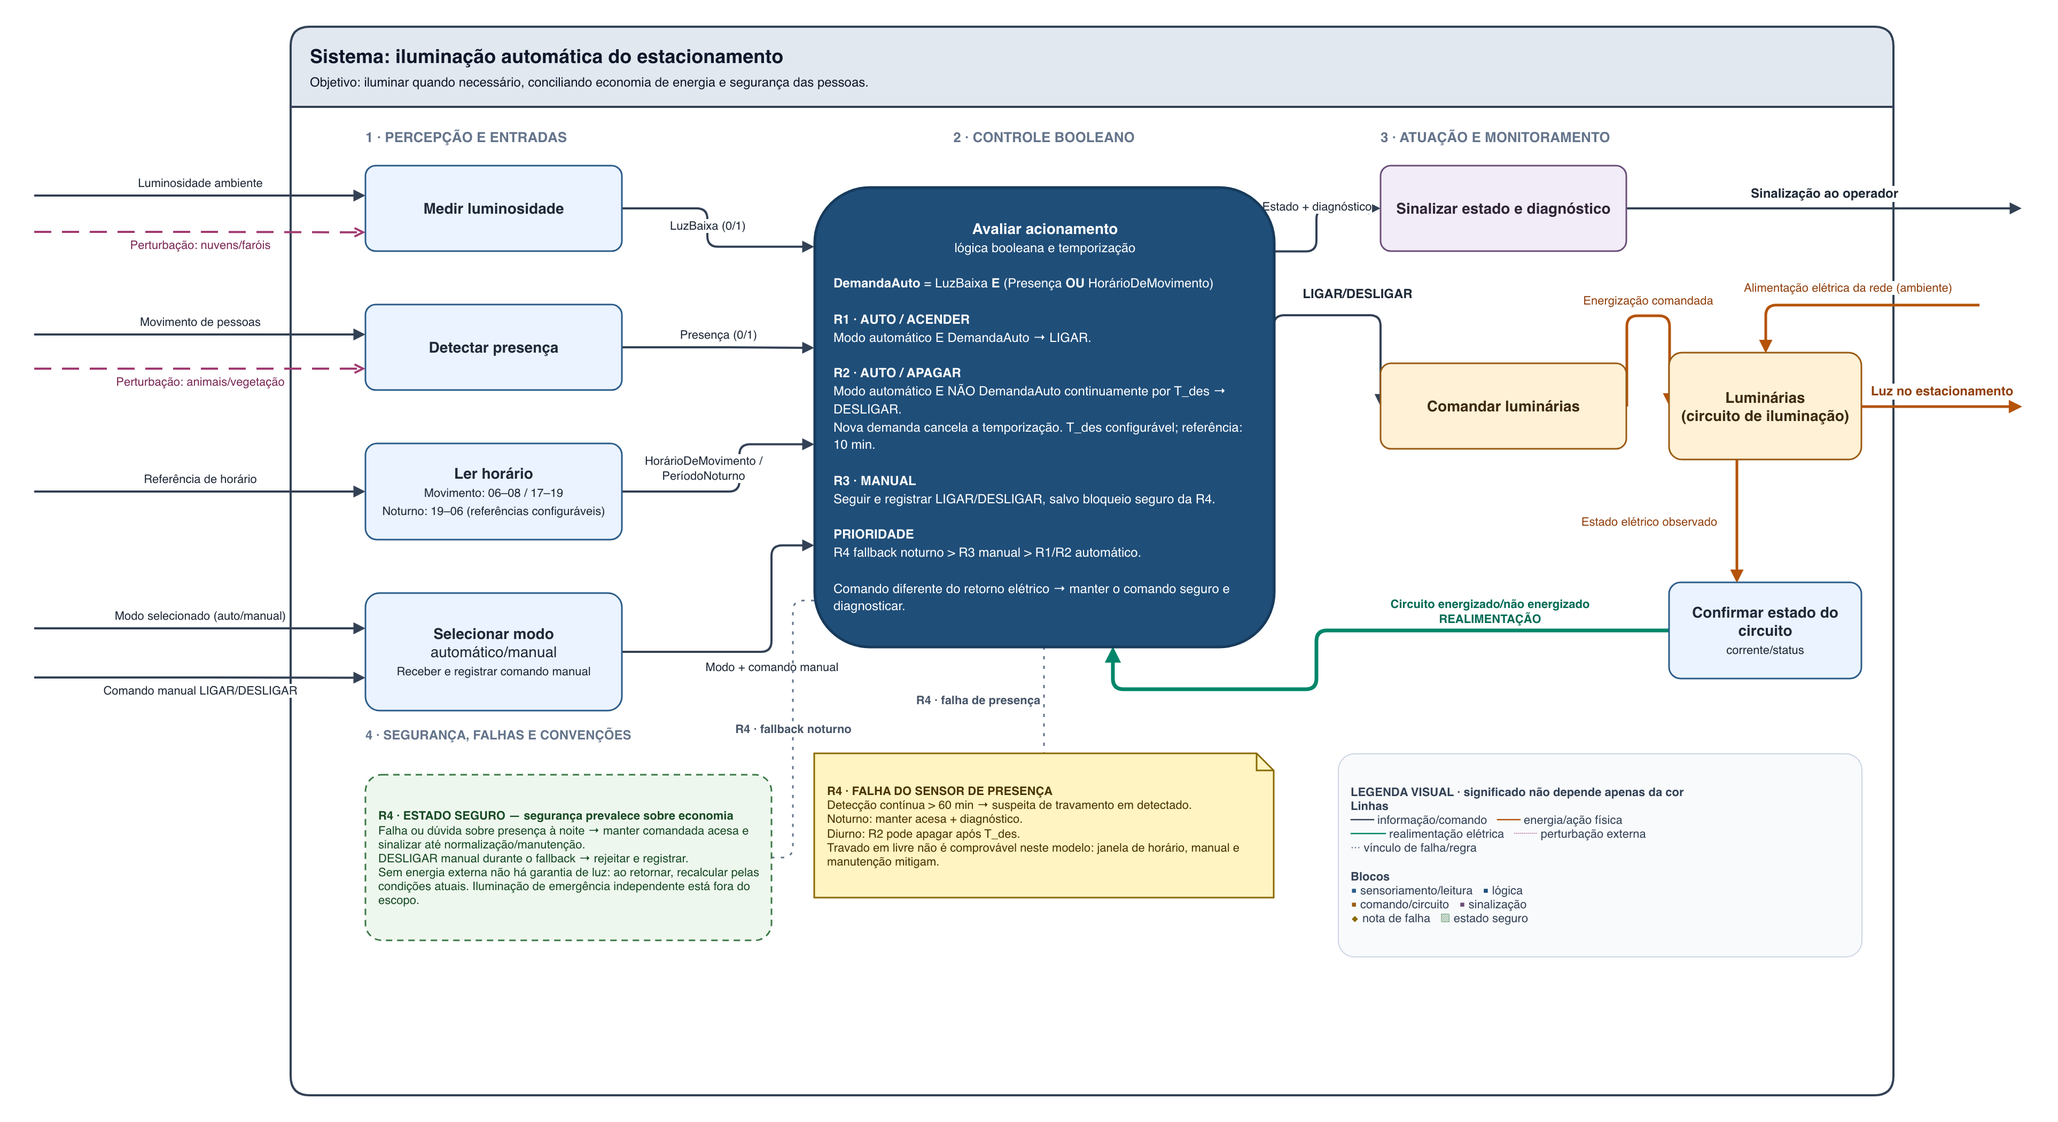
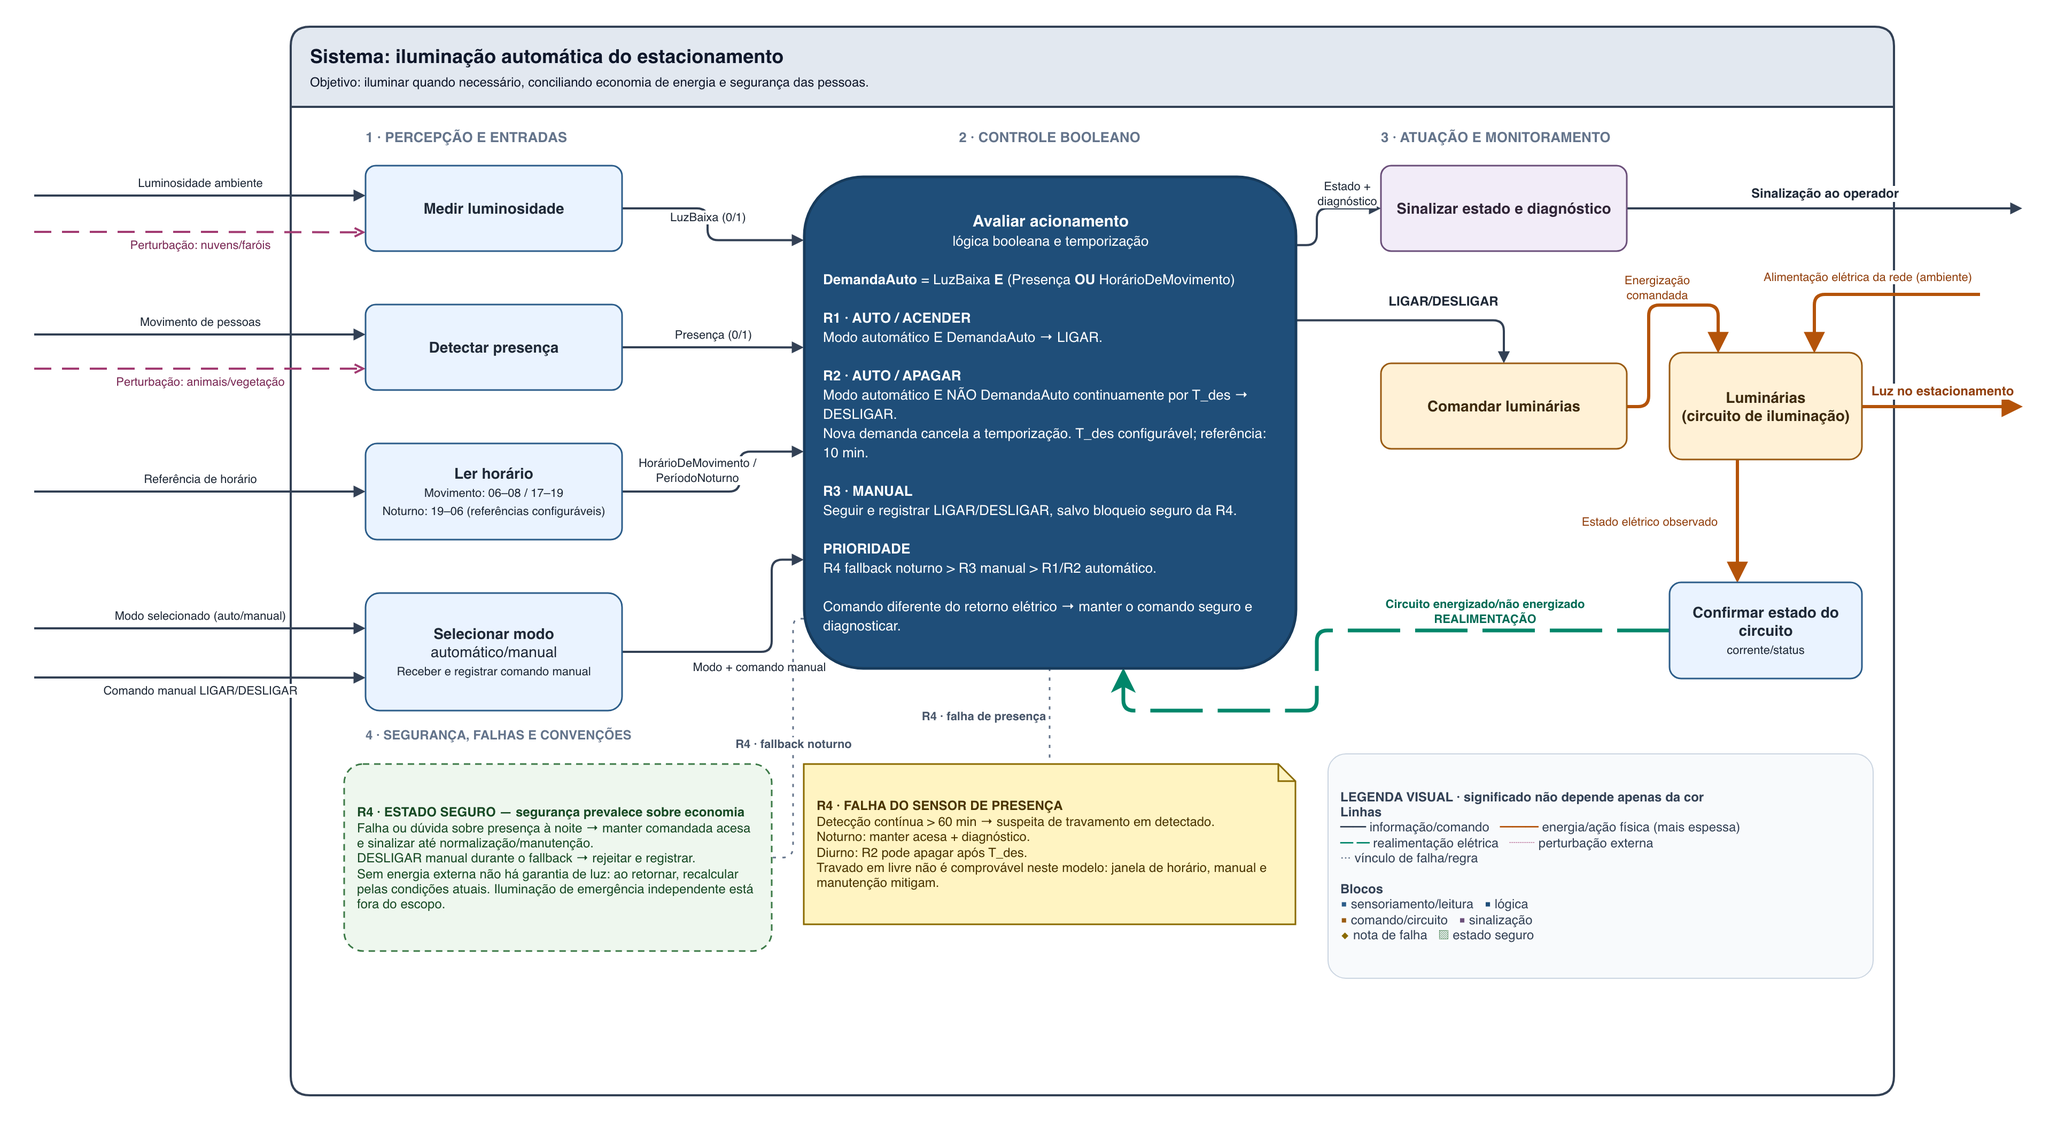
TP01: refina diagramas dos exercícios adicionais

diff --git a/atividades/TP01-fundamentos/reservatorio/README.md b/atividades/TP01-fundamentos/reservatorio/README.md
@@ -52,7 +52,8 @@ controlado pelo sistema.
 | `L_baixo` | Limite inferior de comutação: liga a bomba |
 | `L_alto` | Limite superior de comutação: desliga a bomba |
 | `LAA` | Limite de proteção alto-alto, acima de `L_alto` |
-| `T_diag` | Tempo máximo para observar resposta coerente do nível após comando da bomba |
+| `T_diag` | Janela máxima para observar tendência de subida após comando `LIGAR` |
+| Premissa diagnóstica | Vazão da bomba maior que o consumo máximo admissível de projeto |
 | Perturbação | Consumo variável, que reduz o nível |
 
 `L_baixo` e `L_alto` são dois limites de uma única faixa desejada, não dois
@@ -84,17 +85,22 @@ sobre a operação normal.
 4. **R4 — proteção alto-alto:** se `nível ≥ LAA`, desligar a bomba, alarmar e
    exigir rearme manual. R4 prevalece sobre R2: ambas desligam a bomba, mas
    somente R4 retém a falha e exige alarme e rearme.
-5. **R5 — sensor/resposta inválida:** se o sinal estiver fora da faixa física
-   **ou** não houver variação coerente do nível após um comando da bomba durante
-   `T_diag`, desligar a bomba, alarmar, reter a falha e exigir rearme manual.
-   `T_diag` é configurável no comissionamento. A instrumentação não distingue
-   um sensor travado em valor plausível de uma bomba que não responde; ambos
-   recebem a mesma resposta segura. R5 prevalece sobre R4 e sobre a operação
-   normal.
+5. **R5 — sensor/resposta incoerente:** sob a premissa de projeto de que a vazão
+   da bomba supera o consumo máximo admissível, declarar **suspeita** se o sinal
+   estiver fora da faixa física **ou** se, após `LIGAR`, o nível medido não
+   apresentar tendência de subida durante `T_diag`. Desligar a bomba, alarmar,
+   reter a falha e exigir rearme manual. `T_diag` é configurável no
+   comissionamento. O modelo não identifica a causa: sensor travado em valor
+   plausível, bomba sem resposta ou consumo fora da faixa de projeto recebem a
+   mesma resposta segura. R5 prevalece sobre R4 e sobre a operação normal.
 
 As permissivas de ligação são: sistema habilitado, ausência de falha retida e
 nível compatível com reposição. Fora delas, qualquer solicitação de ligação é
 rejeitada e a bomba permanece desligada.
+
+R0 é somente repouso, não falha retida: ao reabilitar o sistema, as regras
+operacionais podem voltar a ser avaliadas se não existir latch de R4/R5. Apenas
+R4 e R5 exigem inspeção e rearme manual.
 
 As regras R4 e R5 declaram uma **falha retida (latch)**. Uma vez ativa, ela
 mantém a bomba desligada e bloqueia R1–R3 mesmo que a condição de detecção
@@ -117,13 +123,15 @@ manual após inspeção.
 
 A bomba altera fisicamente o nível da planta. O **nível resultante** retorna ao
 sensor, que gera o **nível medido** para o controlador; esse retorno fecha a
-malha e permite desligar em `L_alto`, detectar `LAA` e verificar se houve
-resposta coerente ao comando da bomba dentro de `T_diag`.
+malha e permite desligar em `L_alto`, detectar `LAA` e verificar a resposta ao
+comando da bomba. Como premissa diagnóstica, a vazão de reposição deve superar o
+consumo máximo admissível; assim, após `LIGAR`, espera-se tendência de subida do
+nível dentro de `T_diag`.
 
 A proteção `LAA` continua baseada no nível medido. Portanto, um sensor travado
-em valor plausível pode ocultar o nível alto-alto; a R5 apenas percebe que a
-resposta dinâmica ao comando é incoerente e não consegue separar essa falha de
-uma bomba que não respondeu.
+em valor plausível pode ocultar o nível alto-alto. A R5 apenas declara uma
+suspeita de resposta incoerente; ela não separa sensor travado, bomba sem
+resposta e consumo acima da faixa de projeto.
 
 O consumo variável é uma perturbação: age diretamente sobre a planta e pode
 reduzir o nível de forma não comandada. Ele não é uma entrada de decisão do
@@ -133,18 +141,21 @@ controlador; seu efeito chega à lógica por meio da realimentação de nível.
 
 | Falha ou condição anormal | Efeito | Detecção | Resposta segura |
 |---|---|---|---|
-| Sensor/resposta inválida | Decisão incorreta de liga/desliga, com risco de esvaziamento ou transbordo | Sinal fora da faixa física ou ausência de variação coerente do nível após comando da bomba por `T_diag` (R5) | Desligar bomba, alarmar, reter a falha e exigir rearme manual |
-| Bomba/atuador não responde | A reposição comandada não ocorre; o nível pode continuar caindo | Ausência de variação coerente do nível após o comando por `T_diag` (R5); indistinguível de sensor travado em valor plausível | Aplicar a resposta comum da R5: desligar, alarmar, reter a falha e exigir inspeção e rearme manual |
+| Sensor/resposta incoerente | Decisão incorreta de liga/desliga, com risco de esvaziamento ou transbordo | Sinal fora da faixa física ou, após `LIGAR`, ausência de tendência de subida por `T_diag`, considerando vazão da bomba maior que o consumo máximo admissível (R5) | Declarar suspeita; desligar bomba, alarmar, reter a falha e exigir rearme manual |
+| Bomba/atuador não responde | A reposição comandada não ocorre; o nível pode continuar caindo | Ausência de tendência de subida após `LIGAR` por `T_diag` (R5); causa não identificável apenas pelo nível | Aplicar a resposta comum da R5: desligar, alarmar, reter a falha e exigir inspeção e rearme manual |
+| Consumo acima da faixa de projeto | A vazão retirada pode anular a reposição e esvaziar o reservatório | Mesmo sintoma diagnóstico: ausência de tendência de subida após `LIGAR` por `T_diag` | Aplicar a resposta comum da R5 e inspecionar consumo, bomba e sensor antes do rearme |
 | Nível alto-alto | Risco de transbordamento | `nível ≥ LAA` (R4) | Desligar bomba, alarmar, reter a falha e exigir rearme manual |
 | Comando indevido de ligação fora das permissivas | Energização insegura, reposição fora de sequência ou risco de transbordo | Controlador verifica habilitação, ausência de latch e condição de nível antes de emitir `LIGAR` | Rejeitar a ligação e manter a bomba desligada; sinalizar se a solicitação persistir |
 | Queda de alimentação elétrica | Controlador e reposição param | Ausência de alimentação; não há decisão ativa | A bomba para passivamente. Uma falha previamente retida permanece retida no retorno da energia |
 
 ## Estado seguro e recuperação
 
-O estado seguro é **bomba desligada**. Nível alto-alto ou sensor/resposta
-inválida leva a esse estado, gera alarme e impede retomada automática. O retorno
-ao automático exige inspeção e rearme manual. A manutenção só pode ocorrer com
-o sistema desabilitado.
+O estado físico compartilhado é **bomba desligada**, mas as recuperações são
+distintas. Em R0, trata-se de repouso: ao reabilitar, a avaliação pode continuar
+se não houver latch. Em R4/R5, trata-se de estado seguro retido: nível alto-alto
+ou suspeita de sensor/resposta incoerente gera alarme e impede retomada
+automática; o retorno exige inspeção e rearme manual. A manutenção só pode
+ocorrer com o sistema desabilitado.
 
 Na perda de energia, a bomba para passivamente, fora da lógica. Quando a energia
 retorna, uma falha que já estava retida continua exigindo rearme; sem falha
@@ -160,7 +171,7 @@ nomeia os blocos e as setas efetivamente percorridos no desenho.
 | Consumo esvazia até `L_baixo` | Sistema habilitado; sem falha; nível cruza `L_baixo` em queda | Sensor → controlador (R1) → bomba → planta | Bomba liga | `Consumo variável (retirada)` → `Reservatório e tubulações (planta)` → `Nível resultante (realimentação)` → `Medir nível (sensor)` → `Nível medido` → `Decidir liga/desliga (controlador)` (R1) → `Comando liga/desliga` → `Acionar bomba` → `Vazão de reposição` → `Reservatório e tubulações (planta)` | Conforme |
 | Reposição atinge `L_alto` | Sistema habilitado; sem falha; nível cruza `L_alto` em subida | Sensor → controlador (R2) → bomba | Bomba desliga | `Reservatório e tubulações (planta)` → `Nível resultante (realimentação)` → `Medir nível (sensor)` → `Nível medido` → `Decidir liga/desliga (controlador)` (R2) → `Comando liga/desliga` com desligamento → `Acionar bomba`; a `Vazão de reposição` torna-se nula | Conforme |
 | Consumo intenso contínuo | Sistema habilitado; sem falha; bomba ligada; nível permanece entre os limites porque a reposição compensa o consumo | Sensor → controlador (R3) → manter estado → planta | Bomba permanece ligada, sem oscilar | `Consumo variável (retirada)` → `Reservatório e tubulações (planta)` → `Nível resultante (realimentação)` → `Medir nível (sensor)` → `Nível medido` → `Decidir liga/desliga (controlador)` (R3) → `Comando liga/desliga` mantendo o estado → `Acionar bomba` → `Vazão de reposição` → `Reservatório e tubulações (planta)` | Conforme |
-| Sensor/resposta inválida | Sistema habilitado; sinal fora da faixa física | Sensor → controlador (R5) → bomba e alarme | Bomba desligada; alarme; rearme manual | `Medir nível (sensor)` → `Nível medido` fora da faixa física → `Decidir liga/desliga (controlador)` (R5) →, em paralelo, `Comando liga/desliga` → `Acionar bomba` (desligar) e `Estado e alarme` → `Sinalizar e alarmar` → `Sinalização / alarme ao operador`; a nota `R4/R5 · falha retida` registra o bloqueio até o rearme | Conforme |
+| Sensor/resposta incoerente | Sistema habilitado; sinal fora da faixa física | Sensor → controlador (R5) → bomba e alarme | Bomba desligada; alarme; rearme manual | `Medir nível (sensor)` → `Nível medido` fora da faixa física → `Decidir liga/desliga (controlador)` (R5) →, em paralelo, `Comando liga/desliga` → `Acionar bomba` (desligar) e `Estado e alarme` → `Sinalizar e alarmar` → `Sinalização / alarme ao operador`; a nota `R4/R5 · falha retida` registra o bloqueio até o rearme | Conforme |
 | Nível alto-alto | Sistema habilitado; `LAA` atingido | Sensor → controlador (R4, antes de R2) → bomba e alarme | Bomba desligada; alarme; rearme manual | `Reservatório e tubulações (planta)` → `Nível resultante (realimentação)` → `Medir nível (sensor)` → `Nível medido` → `Decidir liga/desliga (controlador)` (R4) →, em paralelo, `Comando liga/desliga` → `Acionar bomba` (desligar) e `Estado e alarme` → `Sinalizar e alarmar` → `Sinalização / alarme ao operador`; a nota `R4/R5 · falha retida` registra o latch | Conforme |
 
 ## Verificações complementares — não são casos adicionais
@@ -168,13 +179,15 @@ nomeia os blocos e as setas efetivamente percorridos no desenho.
 ### Resposta inválida após comando (`T_diag`)
 
 Com o sistema habilitado e a R1 ativa, `Decidir liga/desliga (controlador)` envia
-`Comando liga/desliga` = ligar para `Acionar bomba`. Se o `Nível medido`,
-recebido pela realimentação, não apresentar variação coerente até `T_diag`, a R5
-é retida: o controlador envia desligamento pelo mesmo `Comando liga/desliga` e,
-em paralelo, `Estado e alarme` → `Sinalizar e alarmar` → `Sinalização / alarme
-ao operador`. A nota `R4/R5 · falha retida` registra a exigência de inspeção e
-rearme. O caminho é o mesmo tanto para sensor travado em valor plausível quanto
-para bomba sem resposta, pois o modelo não os distingue. **Status: Conforme.**
+`Comando liga/desliga` = ligar para `Acionar bomba`. Pela premissa explícita de
+que a vazão da bomba supera o consumo máximo admissível, o `Nível medido`
+recebido pela realimentação deve mostrar tendência de subida dentro de
+`T_diag`. Se isso não ocorrer, a R5 declara suspeita e é retida: o controlador
+envia desligamento pelo mesmo `Comando liga/desliga` e, em paralelo, `Estado e
+alarme` → `Sinalizar e alarmar` → `Sinalização / alarme ao operador`. A nota
+`R4/R5 · falha retida` registra a inspeção e o rearme. O modelo não identifica
+se a causa foi sensor travado, bomba sem resposta ou consumo acima da faixa de
+projeto. **Status: Conforme.**
 
 ### Rejeição de comando indevido
 
@@ -187,7 +200,9 @@ aplica `Fora das permissivas → rejeitar ligação` e mantém `Comando liga/des
 
 Com o sistema desabilitado, a entrada `Habilitação do sistema (R0)` chega ao
 controlador, que aplica R0 e envia `Comando liga/desliga` para manter a bomba
-desligada. Nenhuma regra operacional é avaliada. **Status: Conforme.**
+desligada. Nenhuma regra operacional é avaliada. R0 não cria latch: ao
+reabilitar, as regras voltam a ser avaliadas se não houver falha R4/R5 retida,
+sem exigir o `Rearme manual (libera o latch)`. **Status: Conforme.**
 
 ## Autoria
 

diff --git a/atividades/TP01-fundamentos/escada-rolante/README.md b/atividades/TP01-fundamentos/escada-rolante/README.md
@@ -85,12 +85,14 @@ velocidades medidas.
    por `T_espera` → desacelerar, parar e aplicar o freio. O parâmetro é
    configurável; o valor de referência do modelo é `T_espera = 30 s`.
 4. **R4 — proteção/emergência:** se um dispositivo de segurança atuar, houver
-   objeto preso ou o comando de emergência for acionado → retirar o comando do
-   acionamento, executar parada de segurança, aplicar o freio, alarmar e reter
-   o bloqueio até inspeção e rearme manual.
+   objeto preso (risco de aprisionamento ou dano) ou o comando de emergência
+   for acionado → retirar o comando do acionamento, executar parada de
+   segurança, aplicar o freio, alarmar e reter o bloqueio até inspeção e rearme
+   manual.
 5. **R5 — falha de movimento:** se o motor for comandado e não houver velocidade,
    ocorrer sobrevelocidade ou houver diferença anormal entre degraus e corrimão
-   → retirar o comando, aplicar o freio, alarmar e exigir rearme manual.
+   (risco de queda ou perda de estabilidade) → retirar o comando, aplicar o
+   freio, alarmar e exigir rearme manual.
 
 **Prioridade e permissivas:** R4 e R5 prevalecem sobre R1–R3. A ausência de
 demanda nunca inicia parada enquanto a zona transportada estiver ocupada. Fora
@@ -112,7 +114,8 @@ diferença anormal leva à R5.
 O sinal `Dispositivos livres/atuados — Intertravamento de segurança`, em azul
 traço-ponto, bloqueia ou interrompe movimento, mas não mede o resultado do
 comando. Por isso não é realimentação. O comando de emergência é uma entrada
-prioritária separada, em vermelho espesso.
+prioritária separada, em vermelho espesso e tracejado curto, distinguível da
+realimentação mesmo sem cor.
 
 ## Perturbação
 
@@ -165,9 +168,9 @@ desenho.
 
 | Cenário | Entrada/precondição | Resposta esperada | Resultado rastreado no diagrama | Status |
 |---|---|---|---|---|
-| Aproximação válida | Habilitada; aproximação; zona e dispositivos livres; sem falha/emergência | Iniciar e atingir velocidade nominal | `Aproximação / ocupação de passageiros` → `Detectar aproximação e ocupação` → `Demanda; zona ocupada/livre` → lógica `R1 · INICIAR` → `Referência de velocidade + freio` → `Comandar acionamento e freio` → `Torque / freio liberado` → `Mover degraus e corrimão` → `Rotação mecânica` → `Medir velocidades` → `Velocidades medidas (degraus / corrimão)` retorna à lógica | Conforme |
-| Transporte ocupado | Passageiros na zona; velocidades coerentes | Manter velocidade nominal | `Detectar aproximação e ocupação` → `Demanda; zona ocupada/livre` → lógica `R2 · TRANSPORTAR` → `Referência de velocidade + freio` → `Comandar acionamento e freio` → `Torque / freio liberado` → `Mover degraus e corrimão` → `Rotação mecânica` → `Medir velocidades` → realimentação verde `Velocidades medidas (degraus / corrimão)` à lógica | Conforme |
-| Espera sem demanda | Zona livre e nenhuma presença por `T_espera = 30 s` de referência | Desacelerar, parar e aplicar freio | Sinal `Demanda; zona ocupada/livre` → lógica `R3 · ESPERA ECONÔMICA` → `Referência de velocidade + freio` → `Comandar acionamento e freio` → `Torque / freio liberado` → `Mover degraus e corrimão` → `Rotação mecânica` → `Medir velocidades` → velocidade zero retorna pela seta `Velocidades medidas (degraus / corrimão)` | Conforme |
+| Aproximação válida | Habilitada; aproximação; zona e dispositivos livres; sem falha/emergência | Iniciar e atingir velocidade nominal | `Aproximação / ocupação de passageiros` → `Detectar aproximação e ocupação` → `Demanda; zona ocupada/livre` → lógica `R1 · INICIAR` → `Referência de velocidade + freio` → `Comandar acionamento e freio` → `Torque / freio (liberar/aplicar)` → `Mover degraus e corrimão` → `Rotação mecânica` → `Medir velocidades` → `Velocidades medidas (degraus / corrimão)` retorna à lógica | Conforme |
+| Transporte ocupado | Passageiros na zona; velocidades coerentes | Manter velocidade nominal | `Detectar aproximação e ocupação` → `Demanda; zona ocupada/livre` → lógica `R2 · TRANSPORTAR` → `Referência de velocidade + freio` → `Comandar acionamento e freio` → `Torque / freio (liberar/aplicar)` → `Mover degraus e corrimão` → `Rotação mecânica` → `Medir velocidades` → realimentação verde `Velocidades medidas (degraus / corrimão)` à lógica | Conforme |
+| Espera sem demanda | Zona livre e nenhuma presença por `T_espera = 30 s` de referência | Desacelerar, parar e aplicar freio | Sinal `Demanda; zona ocupada/livre` → lógica `R3 · ESPERA ECONÔMICA` → `Referência de velocidade + freio` → `Comandar acionamento e freio` → `Torque / freio (liberar/aplicar)` → `Mover degraus e corrimão` → `Rotação mecânica` → `Medir velocidades` → velocidade zero retorna pela seta `Velocidades medidas (degraus / corrimão)` | Conforme |
 | Objeto no pente | Perturbação externa; dispositivo de segurança atuado | Parada de segurança, freio, alarme e bloqueio retido | Origem `Perturbação: objeto / carga / fluxo de pessoas (ambiente)` → `Atua pente / entrada` → `Monitorar dispositivos de segurança` → seta azul `Dispositivos livres/atuados — Intertravamento de segurança` → `Avaliar demanda e transporte`; o vínculo `R4/R5 · proteção/falha retida` associa a lógica à nota `R4 · PROTEÇÃO / EMERGÊNCIA`, e a lógica envia `Referência de velocidade + freio` e `Estado e falhas`; o segundo ramo `Carga / objeto no mecanismo` registra a ação física simultânea | Conforme |
 | Emergência | Comando prioritário acionado | Parar, frear, alarmar e exigir inspeção/rearme | `Comando de emergência` → `Avaliar demanda e transporte`; o vínculo `R4/R5 · proteção/falha retida` associa a resposta à nota `R4 · PROTEÇÃO / EMERGÊNCIA`, enquanto a lógica envia `Referência de velocidade + freio` e `Estado e falhas`; `Estado seguro + rearme` aponta para o quadro de estado seguro, e `Habilitação / manutenção / rearme manual` representa o único retorno autorizado | Conforme |
 | Falha de velocidade | Comando ativo e velocidade ausente, excessiva ou incoerente | Retirar comando, frear, alarmar e bloquear | `Mover degraus e corrimão` → `Rotação mecânica` → `Medir velocidades` → realimentação `Velocidades medidas (degraus / corrimão)` → `Avaliar demanda e transporte`; vínculo `R4/R5 · proteção/falha retida` → nota `R5 · FALHA DE MOVIMENTO`; a lógica envia `Referência de velocidade + freio` e `Estado e falhas` | Conforme |
